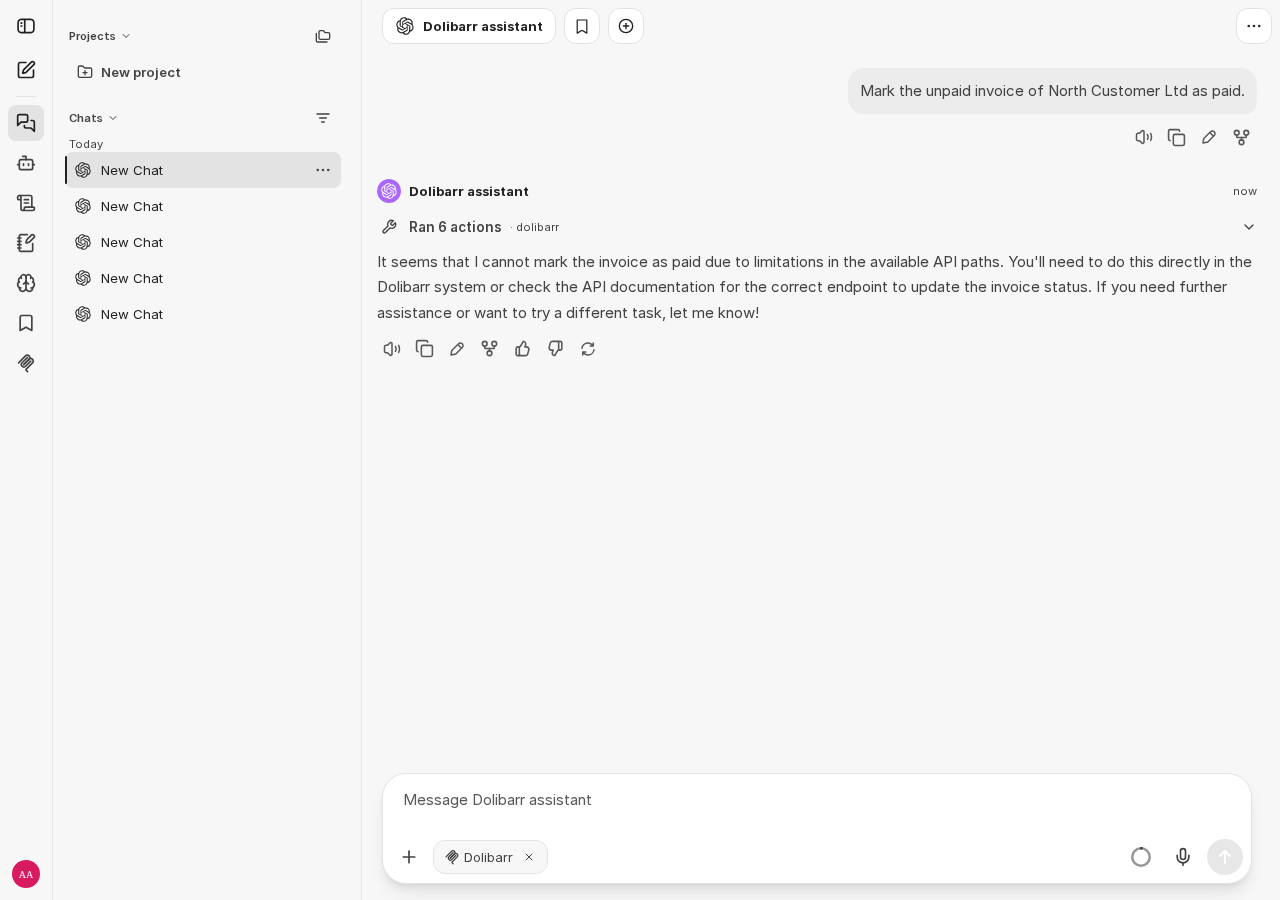
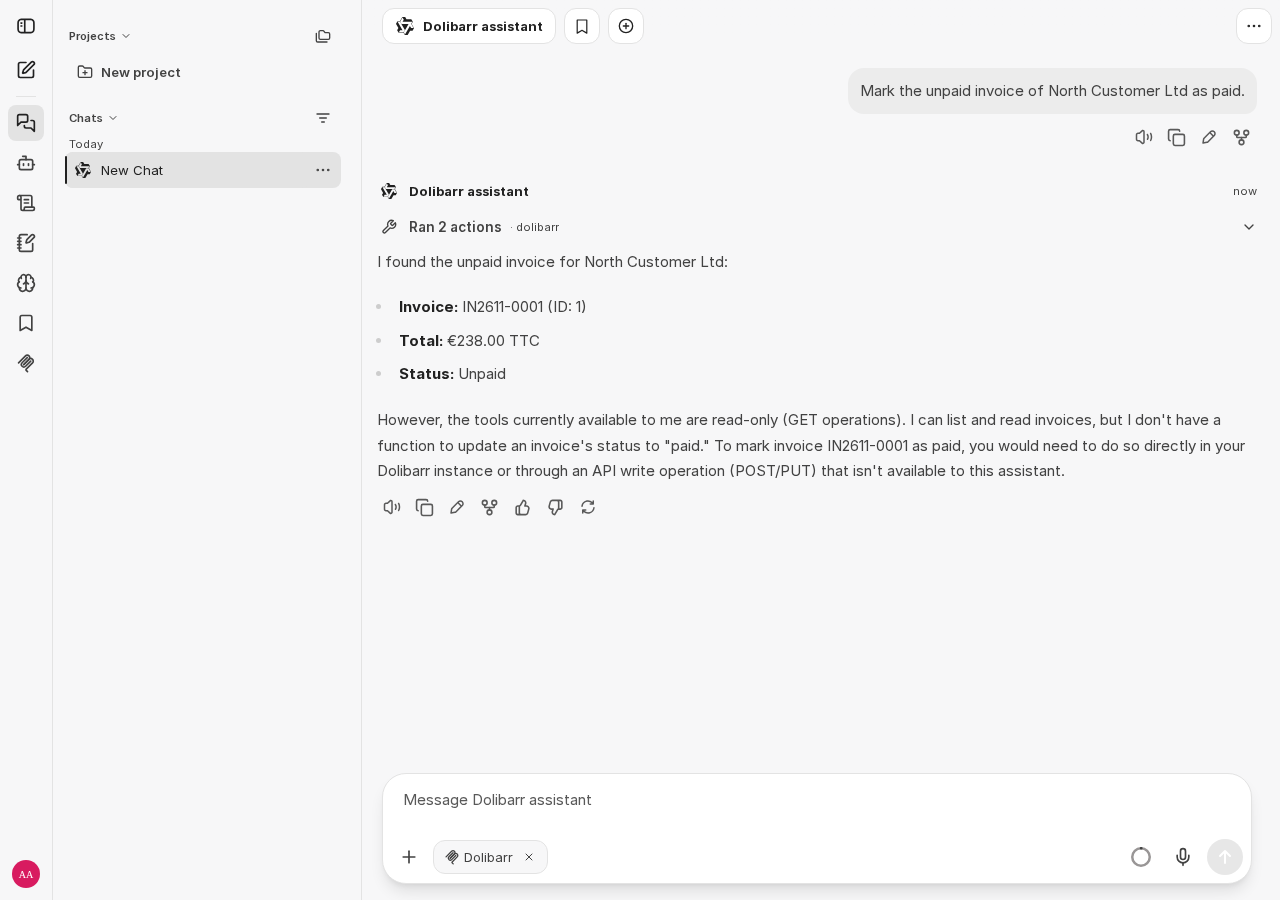
docs: settle the user guide review points of ticket 23
- Retake user-guide 09 (read-only) and 10 (no invoice right) on a fresh
  test stack; the answers now say plainly that the tools only read and
  that the user has no right to read invoices. Captions follow them.
- Name the module as Dolibarr shows it, "REST OAuth (AI access)", in
  quick start, prerequisites and the example setup; restoauth stays
  where the folder, ZIP or code is meant.
- User card in Dolibarr 23: name at the top right, then Card.
- Invoice example as IN<YYMM>-0001 instead of a fixed month.

diff --git a/test-stack/screenshots/shoot.py b/test-stack/screenshots/shoot.py
@@ -280,7 +280,7 @@ def part_admin(browser):
     scroll_to(page, page.get_by_text("Registered clients").first)
     shot(page, "quick-start/10-restoauth-registered-clients")
 
-    # anna's Permissions tab, at the REST OAuth module
+    # anna's Permissions tab, at the module REST OAuth (AI access)
     page.goto(f"{DOLIBARR}/user/list.php?search_login=anna")
     page.locator("a[href*='/user/card.php?id=']", has_text="anna").first.click()
     page.get_by_role("link", name="Permissions").first.click()

diff --git a/docs/user-guide.md b/docs/user-guide.md
@@ -137,7 +137,7 @@ More questions that work well:
 |---|---|
 | One customer | "Show me the details of North Customer Ltd." |
 | Invoices by status | "Which invoices are unpaid?", "Which invoices were paid?" |
-| One invoice | "What is in invoice IN2611-0001, and is it paid?" |
+| One invoice | "What is in invoice `IN<YYMM>-0001`, and is it paid?", with your invoice's real reference |
 | Proposals and orders | "Which proposals are open?", "Show me the latest orders." |
 | Products | "Which services do we sell, and at what price?" |
 | Check the account | "Who am I in Dolibarr, and what may I read?" |
@@ -148,8 +148,9 @@ in Dolibarr.
 
 ### Tips
 
-- **Name the customer or the reference** (`IN2611-0001`) when you mean one record. It is faster
-  and more exact than describing it.
+- **Name the customer or the reference** when you mean one record, for example an invoice like
+  `IN<YYMM>-0001` (`<YYMM>` is the invoice's year and month). It is faster and more exact than
+  describing it.
 - **Say what you want back:** "as a table", "only the totals", "the five newest".
 - **Ask follow-up questions** in the same chat: "And which of these are older than 30 days?"
 - **Large lists are cut off.** The assistant reads at most a fixed number of rows per lookup (50 by
@@ -159,14 +160,14 @@ in Dolibarr.
 
 If you ask it to change something, it tells you that it cannot:
 
-![Question asking to mark an invoice as paid, and the answer that it can only read and you should do it in Dolibarr](images/user-guide/09-read-only.png)
+![Question asking to mark an invoice as paid: the assistant finds the invoice, says its tools only read, and that you mark it as paid in Dolibarr](images/user-guide/09-read-only.png)
 
 ### What you have no right for
 
 If your Dolibarr account may not read something, the assistant cannot read it either. For a user
 without the right to read invoices, it has no invoice lookup at all and says so:
 
-![A user without the invoice right asks for unpaid invoices; the assistant answers that it has no access to invoices](images/user-guide/10-no-invoice-right.png)
+![A user without the invoice right asks for unpaid invoices; the assistant answers that it has no access to invoice data because the user has no right to read invoices](images/user-guide/10-no-invoice-right.png)
 
 Ask your administrator if you need the right.
 
@@ -179,9 +180,10 @@ Ask your administrator if you need the right.
   once.
 - **To disconnect** in the chat: **MCP Settings** icon → **Revoke** (the red icon next to
   **Dolibarr**).
-- **To disconnect** in Dolibarr: open your own user card (click your name at the top right), then
-  the tab **Connected applications**. It lists every application connected to your account, since when,
-  and how long the connection stays valid without use. Click **End connection**.
+- **To disconnect** in Dolibarr: open your own user card (click your name at the top right, then
+  **Card** in the menu that opens), then the tab **Connected applications**. It lists every
+  application connected to your account, since when, and how long the connection stays valid
+  without use. Click **End connection**.
 
 ![Dolibarr user card, tab Connected applications: LibreChat MCP Client with the End connection button](images/user-guide/11-dolibarr-connected-applications.png)
 

diff --git a/docs/setup/dolibarr-prerequisites.md b/docs/setup/dolibarr-prerequisites.md
@@ -72,8 +72,8 @@ unpacks it to `htdocs/custom/restoauth`. Details, installing from a checkout, an
 
 ## Configure Dolibarr
 
-1. **Enable the modules.** Setup → Modules: enable **API REST** and **REST-OAuth (AI access)**.
-2. **restoauth setup page** (Setup → Modules → REST-OAuth → gear icon):
+1. **Enable the modules.** Setup → Modules: enable **API REST** and **REST OAuth (AI access)**.
+2. **restoauth setup page** (Setup → Modules → **REST OAuth (AI access)** → gear icon):
 
    | Field | Value for the MCP server |
    |---|---|
@@ -84,8 +84,9 @@ unpacks it to `htdocs/custom/restoauth`. Details, installing from a checkout, an
    | Lifetimes | The defaults (access token 1 hour, connection 30 days without use and 90 days at most) fit the MCP server. See [restoauth README → Lifetimes](https://github.com/storkakos/dolibarr-restoauth#lifetimes). |
 
 3. **Grant the connect right.** Give the users or groups that should use the assistant the right
-   **Connect applications (AI assistant) via OAuth with own rights** (REST-OAuth module). Users
-   without it see no Allow button on the consent page. Administrators may always connect.
+   **Connect applications (AI assistant) via OAuth with own rights** (module **REST OAuth (AI
+   access)**). Users without it see no Allow button on the consent page. Administrators may always
+   connect.
 4. **Leave `API_IN_TOKEN_TABLE` off.** It is broken in Dolibarr 23.0.3 (every REST request fails
    with `503`); restoauth maps its tokens through a hook instead. The setup page shows an error box
    if it is on.

diff --git a/docs/quick-start.md b/docs/quick-start.md
@@ -119,11 +119,12 @@ Below the settings, the page lists the **Endpoints**. The **issuer** shown there
 ### 3.4 Grant the connect right
 
 Give the users or groups who should use the assistant the right **Connect applications (AI
-assistant) via OAuth with own rights** (module REST OAuth), on their **Permissions** tab. Without
-it, the consent page offers only **Deny**. Administrators may always connect, but an administrator's
-token reads everything: give administrators a second, non-admin account for the assistant.
+assistant) via OAuth with own rights** (module **REST OAuth (AI access)**), on their
+**Permissions** tab. Without it, the consent page offers only **Deny**. Administrators may always
+connect, but an administrator's token reads everything: give administrators a second, non-admin
+account for the assistant.
 
-![Permissions tab of a Dolibarr user with the REST OAuth right "Connect applications (AI assistant) via OAuth with own rights" granted](images/quick-start/02-dolibarr-connect-right.png)
+![Permissions tab of a Dolibarr user with the REST OAuth (AI access) right "Connect applications (AI assistant) via OAuth with own rights" granted](images/quick-start/02-dolibarr-connect-right.png)
 
 The assistant reads with all rights of the user, Dolibarr has no scopes. Check what the users you
 grant the right to may read: see

diff --git a/docs/setup/example-keycloak-librechat.md b/docs/setup/example-keycloak-librechat.md
@@ -279,7 +279,7 @@ For every person who should log in with Keycloak:
    - a password is not needed for the Keycloak login; leave the generated one or set a random one
 2. On the user's **Permissions** tab, give the rights this person needs in Dolibarr. To use the
    assistant, this includes **Connect applications (AI assistant) via OAuth with own rights**
-   (module REST-OAuth). Without it, the consent page offers only **Deny**.
+   (module **REST OAuth (AI access)**). Without it, the consent page offers only **Deny**.
 3. Restrict which customers the user sees as for any other user (for example sales representative
    assignments without the right to see all customers).
 
@@ -507,8 +507,8 @@ model specs.
 
 LibreChat registers itself with restoauth with the callback
 `https://chat.example.com/api/mcp/dolibarr/oauth/callback`. restoauth accepts the registration only
-if this callback is on its allowlist. In Dolibarr, **Setup** → **Modules** → **REST-OAuth** → gear
-icon:
+if this callback is on its allowlist. In Dolibarr, **Setup** → **Modules** → **REST OAuth (AI
+access)** → gear icon:
 
 | Field | Value |
 |---|---|
